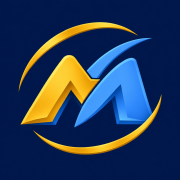
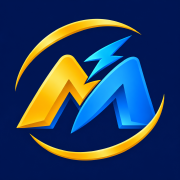
ícono nuevo: M con rayo y órbitas doradas (192, 512, 180 y maskable al 80 % sobre su propio fondo)

Changed region(s): [[0.0833, 0.0833, 0.9167, 0.9167]]

diff --git a/docs/PLAN.md b/docs/PLAN.md
@@ -25,6 +25,7 @@ Estado: ⬜ pendiente · 🟨 en curso · ✅ hecho.
 | 7 | **Ícono de la app**: mascota con la M (192, 512, maskable 512, 180 iPhone) | ✅ 2026-11-03 |
 | 7b | Ícono maskable para Android: ícono nuevo (M con cuernos) al 80 % sobre fondo #061a4a, no se corta en el círculo | ✅ 2026-11-04 |
 | 7c | Ícono nuevo: emblema M dorado y azul con órbitas sobre azul marino (192, 512, 180 y maskable al 80 % sobre #01184C, el mismo fondo de la imagen, sin unión visible; ninguna punta fuera del círculo del 80 %) | ✅ 2026-11-09 (rama `prueba/icono`) |
+| 7d | Ícono nuevo: M con rayo y órbitas doradas (192, 512, 180 y maskable al 80 % sobre su propio fondo #011553; nada fuera del círculo del 80 %) | ✅ 2026-11-18 (rama `prueba/ajustes`) |
 | 8 | **Modo bolsillo**: botón que bloquea los toques durante el GPS (la pantalla se sigue viendo); se desbloquea manteniendo presionado el candado 1,5 s | ✅ 2026-11-02 |
 | 9 | **Evolución**: pestaña "Evolución" (antes Cuerpo) con vistas Actividad / Cuerpo; minutos y distancia por semana o mes, ritmo promedio, comparación con el período anterior; filtros 4 semanas, 3 meses, 1 año, Todo | ✅ 2026-11-04 |
 | 9c | Evolución: mostrar mejor la comparación cuando el período anterior tiene muy poca actividad (ej. +555 %). Si el cambio pasa de +200 % se muestra "antes N min / N km" (`EVO_MAX_PCT`) | ✅ 2026-11-05 (rama `prueba/pendientes`) |

diff --git a/docs/CAMBIOS.md b/docs/CAMBIOS.md
@@ -5,6 +5,7 @@ Una línea por cambio, el más nuevo arriba.
 
 | Fecha | Cambio | Archivos | Costo aprox. |
 |---|---|---|---|
+| 2026-11-18 | Rama `prueba/ajustes`, T1: ícono nuevo "Logo de M con rayo y órbitas doradas" (original en `img/icono-original.png`); 192, 512, 180 y maskable al 80 % sobre #011553 (su mismo fondo); el logo llega al 46 % del lado, al 80 % queda en 36,8 %: nada se corta | `img/*`, `docs/*` | ~10k tokens |
 | 2026-11-09 | Rama `prueba/icono` (unida a main y publicada, caché v28; conflicto resuelto: v28 y las líneas de las dos ramas): maskable con relleno #01184C (el fondo de la imagen original) en vez de #061A4A, para que no se vea el cuadrado alrededor del logo | `img/iconos/icon-512-maskable.png`, `docs/*` | ~3k tokens |
 | 2026-11-09 | Rama `prueba/icono`: ícono nuevo (emblema M dorado y azul con órbitas; original en `img/icono-original.png`), 192, 512, 180 y maskable al 80 % sobre #061A4A (el logo llega al 36 % del lado: nada sale del círculo del 80 %). Caché v26 → v28 (v27 es de `prueba/personajes`) | `img/*`, `sw.js`, `docs/*` | ~10k tokens |
 | 2026-11-09 | Rama `prueba/personajes`: originales de los personajes movidos de `img/personajes-original/` a `respaldo/personajes-original/` (no se sube a GitHub). Unida a main y publicada (caché v27) | `img/*`, `js/app.js`, `docs/*`, `CLAUDE.md` | ~4k tokens |
